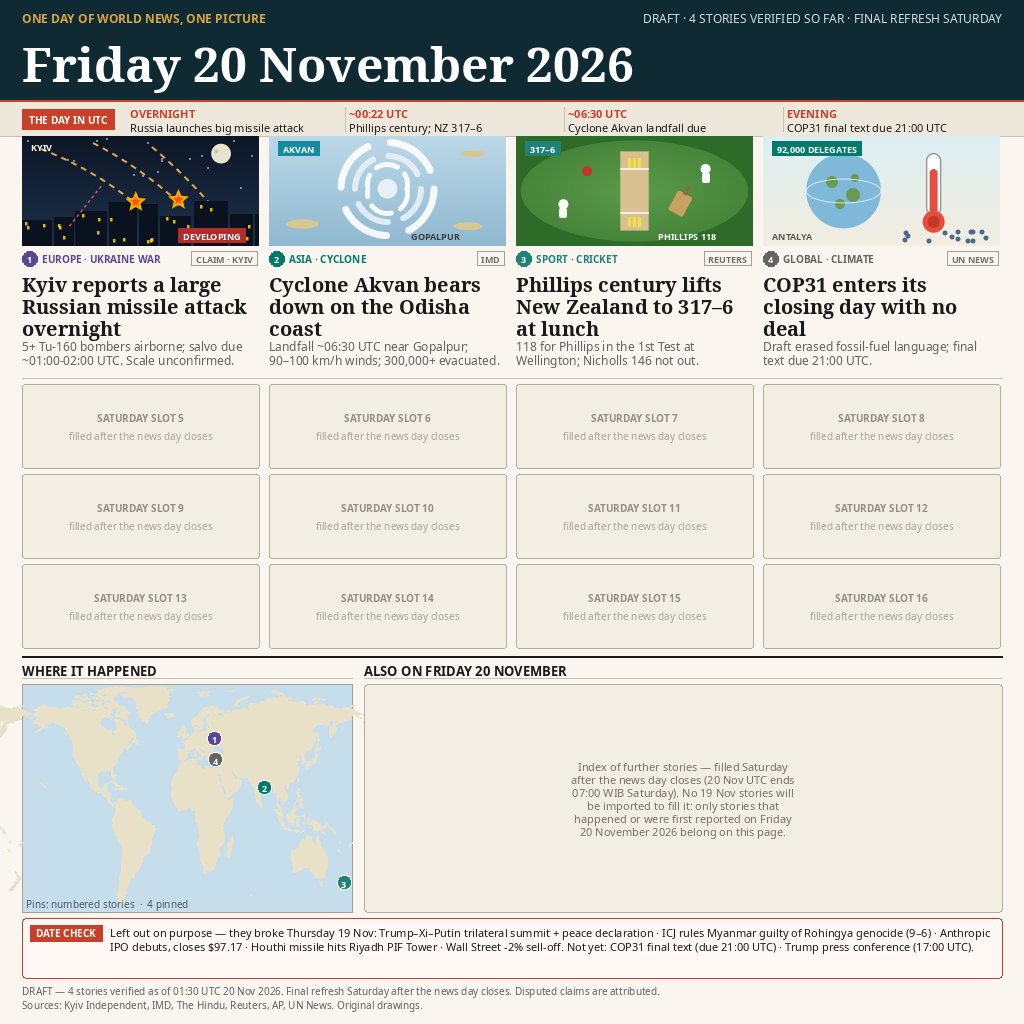
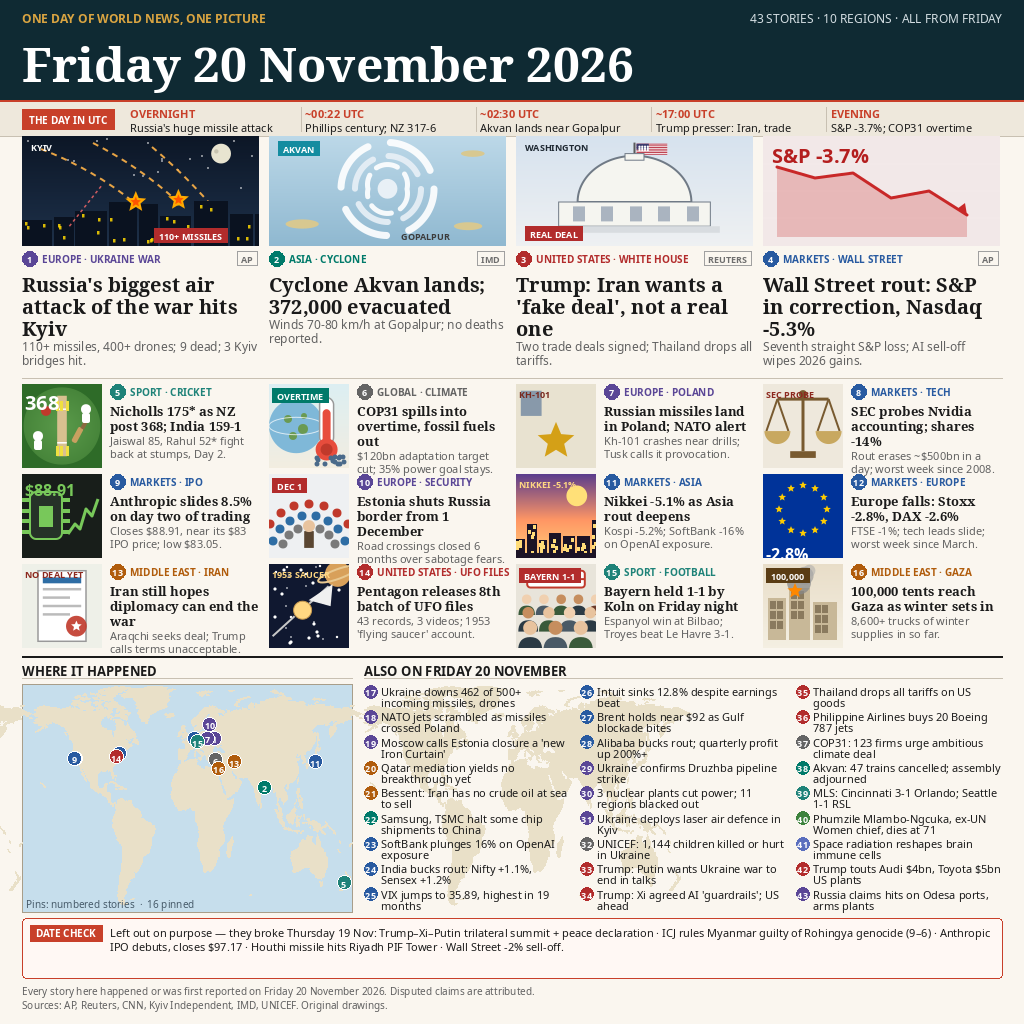
Final entry: 43 verified stories from Friday 20 Nov 2026
4 heroes (Russia air attack, Cyclone Akvan, Trump presser,
Wall Street rout) + 12 featured + 27 ALSO + DATE CHECK.
entry.png 293188 bytes, sha256 3ed189f2f74954166947b8b49462572af109484d298c252600146b270d2de841

diff --git a/README.md b/README.md
@@ -4,7 +4,7 @@
 [![rank](https://make.fun/badge/news-image-20261120/minachan-sec/news-image-20261120/rank.svg)](https://make.fun/bounty/news-image-20261120/leaderboard?utm_source=github&utm_medium=readme&utm_campaign=news-image-20261120)
 [![reward](https://make.fun/badge/news-image-20261120/minachan-sec/news-image-20261120/reward.svg)](https://make.fun/bounty/news-image-20261120?utm_source=github&utm_medium=readme&utm_campaign=news-image-20261120)
 
-> **DRAFT (20 Nov 2026, ~01:30 UTC):** the news day had barely started when this image was built — only 4 stories were verifiable, so the featured grid and index are marked Saturday slots. The final refresh happens Saturday morning after the news day closes, before any submission.
+> **Final (21 Nov 2026):** 43 stories verified as happening or first reported on Friday 20 November 2026 — 4 heroes, 12 featured, 27 further stories, plus a DATE CHECK box naming the big 19 November stories deliberately left out. Built Saturday morning after the news day closed (07:00 WIB).
 
 A newspaper front page summing up **Friday 20 November 2026** in a single
 1024×1024 image, for the
@@ -20,8 +20,8 @@ hero stories with composed illustrations, twelve featured stories, a
 world map with numbered pins, an index of further stories, and a
 DATE CHECK box that names the stories deliberately left out because they
 broke on another day. Every story was verified against reporting from
-Friday 20 November 2026 (Reuters, BBC, AP, AFP and others); disputed
-claims are attributed on the page.
+Friday 20 November 2026 (AP, Reuters, CNN, Kyiv Independent, IMD, UNICEF);
+disputed claims are attributed on the page.
 
 ## Handing it in
 
